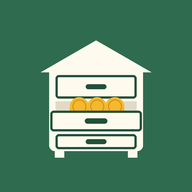
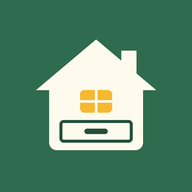
카톡 미리보기 새로 읽게 + 아이콘을 집 모양으로
- 초대 링크를 ?join=코드로 (예전 #join 링크도 그대로 됨), 들어온 뒤 주소에서 지움
- og:url 빼고 og:image 주소에 ?v=3 — 카톡이 예전 '우리집 가계부' 미리보기 대신 새로 읽음
- 아이콘: 크림색 집(굴뚝·불 켜진 창문) + 아래쪽 서랍 하나, og.png도 새 아이콘
- 서비스 워커 캐시 v3

Claude-Session: https://claude.ai/code/session_016e7p19X9p8jQyPKh4wPgBF

diff --git a/index.html b/index.html
@@ -9,10 +9,10 @@
 <meta property="og:description" content="가족이 함께 쓰는 우리집 서랍 — 가계부부터">
 <meta property="og:site_name" content="우리집 서랍">
 <meta property="og:type" content="website">
-<meta property="og:url" content="https://2juwon.github.io/family-book/">
-<meta property="og:image" content="https://2juwon.github.io/family-book/og.png">
+<meta property="og:image" content="https://2juwon.github.io/family-book/og.png?v=3">
 <meta property="og:image:width" content="1200">
 <meta property="og:image:height" content="630">
+<meta property="og:image:alt" content="우리집 서랍 아이콘">
 <meta name="twitter:card" content="summary_large_image">
 <meta name="theme-color" content="#f6f4ef" media="(prefers-color-scheme: light)">
 <meta name="theme-color" content="#141413" media="(prefers-color-scheme: dark)">
@@ -215,6 +215,16 @@ const WEEK = ["일", "월", "화", "수", "목", "금", "토"];
 // ───────── 상태 ─────────
 const S = { auth: load(LS_AUTH), month: null, data: null, tab: "list", filter: "all", statType: "out", busy: 0 };
 
+// 초대 코드는 ?join=코드(새 링크) 또는 #join=코드(예전 링크)
+function joinCode() {
+  const q = new URLSearchParams(location.search).get("join") || (location.hash.match(/join=([A-Za-z0-9]{6})/) || [])[1];
+  return q && /^[A-Za-z0-9]{6}$/.test(q) ? q : null;
+}
+function cleanUrl() {
+  const p = new URLSearchParams(location.search); p.delete("join");
+  const q = p.toString();
+  history.replaceState(null, "", location.pathname + (q ? "?" + q : ""));
+}
 function load(k) { try { return JSON.parse(localStorage.getItem(k)); } catch { return null; } }
 function save(k, v) { try { v == null ? localStorage.removeItem(k) : localStorage.setItem(k, JSON.stringify(v)); } catch {} }
 const $ = (s, el = document) => el.querySelector(s);
@@ -554,7 +564,7 @@ function viewBudget(d) {
 }
 
 function viewSet(d) {
-  const link = location.origin + location.pathname + "#join=" + d.family.code;
+  const link = location.origin + location.pathname + "?join=" + d.family.code;
   return `${installCard()}
     <div class="card">
       <h3>가족 초대하기</h3>
@@ -584,7 +594,7 @@ function viewSet(d) {
 
 // ───────── 시작 화면 ─────────
 function renderStart(app) {
-  const join = (location.hash.match(/join=([A-Za-z0-9]{6})/) || [])[1];
+  const join = joinCode();
   const mode = renderStart.mode || (join ? "join" : "new");
   app.innerHTML = `<div class="start">
     <img class="logo" src="icon-192.png" alt="" width="68" height="68" style="border-radius:18px;box-shadow:var(--shadow)">
@@ -613,7 +623,7 @@ function renderStart(app) {
       else r = await api("POST", "/api/join", { ...body, code: $("#f-code").value.trim() });
       S.auth = { token: r.token, code: r.code, member: r.member, name: r.name };
       save(LS_AUTH, S.auth);
-      history.replaceState(null, "", location.pathname + location.search);
+      cleanUrl();
       S.tab = "list"; S.month = kstToday().slice(0, 7);
       render(); refresh();
       toast(mode === "new" ? "우리집 서랍을 만들었어요! 설정에서 가족을 초대해 보세요" : "환영해요!");
@@ -921,13 +931,13 @@ if ("serviceWorker" in navigator && (location.protocol === "https:" || location.
     S.month = kstToday().slice(0, 7);
     const c = load("fb.cache." + S.auth.code);
     if (c && c.month === S.month) S.data = c.data;
-    const join = (location.hash.match(/join=([A-Za-z0-9]{6})/) || [])[1];
+    const join = joinCode();
     if (join && join.toUpperCase() !== S.auth.code) {
       if (confirm(`다른 서랍(${join.toUpperCase()}) 초대 링크예요.\n지금 서랍에서 나가고 그쪽으로 들어갈까요?`)) {
         renderStart.mode = "join"; logout(false); return;
       }
     }
-    history.replaceState(null, "", location.pathname + location.search);
+    cleanUrl();
     render(); refresh();
   } else render();
   document.addEventListener("visibilitychange", () => { if (!document.hidden && S.auth) refresh(); });

diff --git a/sw.js b/sw.js
@@ -1,5 +1,5 @@
 // 우리집 서랍 서비스 워커 — 화면 파일만 저장(가계부 기록은 서버에서). 이름을 바꾸면 예전 저장본이 지워짐
-const CACHE = "family-book-v2";
+const CACHE = "family-book-v3";
 const SHELL = ["./", "./index.html", "./manifest.webmanifest", "./icon-192.png", "./icon-512.png", "./apple-touch-icon.png", "./og.png"];
 
 self.addEventListener("install", (e) => {

diff --git a/tools/icons.py b/tools/icons.py
@@ -1,33 +1,24 @@
 # 앱 아이콘 만들기: python3 tools/icons.py  → icon-192.png, icon-512.png(마스커블), apple-touch-icon.png
-# 그림: 초록 바탕에 지붕 달린 서랍장(우리집 서랍), 가운데 서랍이 살짝 열려 금화가 보임
+# 그림: 초록 바탕에 크림색 집(지붕·굴뚝·창문), 집 아래쪽에 손잡이 달린 서랍 하나 — '우리집 서랍'
 from PIL import Image, ImageDraw
 import os
 S = 1024
-GREEN, DARK, CREAM, SHADE, GOLD, GOLD2 = (47, 107, 79), (33, 80, 58), (255, 250, 238), (226, 218, 198), (245, 184, 46), (214, 150, 20)
+GREEN, DARK, CREAM, GOLD, GOLD2 = (47, 107, 79), (33, 80, 58), (255, 250, 238), (245, 184, 46), (214, 150, 20)
 
 def draw():
     im = Image.new("RGB", (S, S), GREEN)
     d = ImageDraw.Draw(im)
     cx = S // 2
-    L, R = cx - 250, cx + 250
-    d.polygon([(cx, 215), (L - 45, 385), (R + 45, 385)], fill=CREAM)              # 지붕
-    d.rounded_rectangle([L, 360, R, 805], 30, fill=CREAM)                          # 몸통
-    d.rectangle([L + 30, 805, L + 80, 840], fill=CREAM); d.rectangle([R - 80, 805, R - 30, 840], fill=CREAM)  # 다리
-    def drawer(y0, y1, dx=0, dy=0):
-        d.rounded_rectangle([L + 34 + dx, y0 + dy, R - 34 + dx, y1 + dy], 18, fill=CREAM, outline=DARK, width=12)
-        hy = (y0 + y1) // 2 + dy
-        d.rounded_rectangle([cx - 55 + dx, hy - 13, cx + 55 + dx, hy + 13], 13, fill=DARK)
-    drawer(400, 525)
-    # 가운데 서랍: 앞으로 빠져나온 느낌(조금 크게, 아래로) + 안에서 금화
-    d.rectangle([L + 34, 540, R - 34, 600], fill=SHADE)
-    r = 50
-    for ox in (cx - 90, cx + 5, cx + 100):
-        d.ellipse([ox - r, 568 - r + 8, ox + r, 568 + r + 8], fill=GOLD2)
-        d.ellipse([ox - r, 568 - r, ox + r, 568 + r], fill=GOLD)
-        d.ellipse([ox - r + 14, 568 - r + 12, ox + r - 12, 568 + r - 12], outline=GOLD2, width=6)
-    d.rounded_rectangle([L + 6, 590, R - 6, 700], 18, fill=CREAM, outline=DARK, width=12)
-    d.rounded_rectangle([cx - 60, 631, cx + 60, 659], 14, fill=DARK)
-    drawer(715, 795)
+    d.rectangle([cx + 135, 270, cx + 215, 430], fill=CREAM)                        # 굴뚝
+    d.polygon([(cx, 210), (cx - 320, 480), (cx + 320, 480)], fill=CREAM)          # 지붕
+    d.rounded_rectangle([cx - 250, 440, cx + 250, 800], 40, fill=CREAM)           # 몸통
+    # 창문 (따뜻한 불빛)
+    d.rounded_rectangle([cx - 85, 480, cx + 85, 600], 22, fill=GOLD)
+    d.line([(cx, 480), (cx, 600)], fill=CREAM, width=14)
+    d.line([(cx - 85, 540), (cx + 85, 540)], fill=CREAM, width=14)
+    # 서랍
+    d.rounded_rectangle([cx - 195, 640, cx + 195, 760], 22, fill=CREAM, outline=DARK, width=16)
+    d.rounded_rectangle([cx - 62, 686, cx + 62, 714], 14, fill=DARK)
     return im
 
 base = draw()

diff --git a/test/e2e.py b/test/e2e.py
@@ -73,7 +73,7 @@ with sync_playwright() as p:
     mom = b.new_context(**phone).new_page()
     mom.on("pageerror", lambda e: errors.append(str(e)))
     mom.on("dialog", lambda d: d.accept())
-    mom.goto(PAGE + "#join=" + code)
+    mom.goto(PAGE + "?join=" + code)
     ok("초대 링크 → 들어가기 탭 + 코드 채움", mom.input_value("#f-code") == code)
     mom.fill("#f-pass", "틀린암호"); mom.fill("#f-me", "엄마"); mom.click("#go")
     mom.wait_for_selector("text=암호가 맞지 않아요")
@@ -81,6 +81,9 @@ with sync_playwright() as p:
     mom.fill("#f-pass", "우리집1234"); mom.click("#go")
     mom.wait_for_selector("text=이마트 장보기")
     ok("엄마가 아빠 기록을 봄", "동네 김밥집" in mom.inner_text("main"))
+    ok("들어온 뒤 주소에서 join 지움", "join" not in mom.url)
+    old = b.new_context(**phone).new_page(); old.goto(PAGE + "#join=" + code)
+    ok("예전 #join 링크도 코드 채움", old.input_value("#f-code") == code); old.close()
     mom.screenshot(path=f"{OUT}/03-list.png", full_page=True)
 
     # 엄마가 기록 고치기
@@ -125,6 +128,7 @@ with sync_playwright() as p:
 
     # 설정
     dad.click("[data-tab='set']"); dad.wait_for_selector(".code")
+    ok("초대 링크는 ?join=코드", dad.input_value("#linkbox").endswith("?join=" + code))
     ok("설정: 코드 + 가족 2명", code in dad.inner_text(".code") and "엄마" in dad.inner_text("main"))
     dad.click("[data-act='addcat']"); dad.fill("#ci", "🐶"); dad.fill("#cn", "반려동물"); dad.click(".sheet #save")
     dad.wait_for_selector("text=반려동물")
